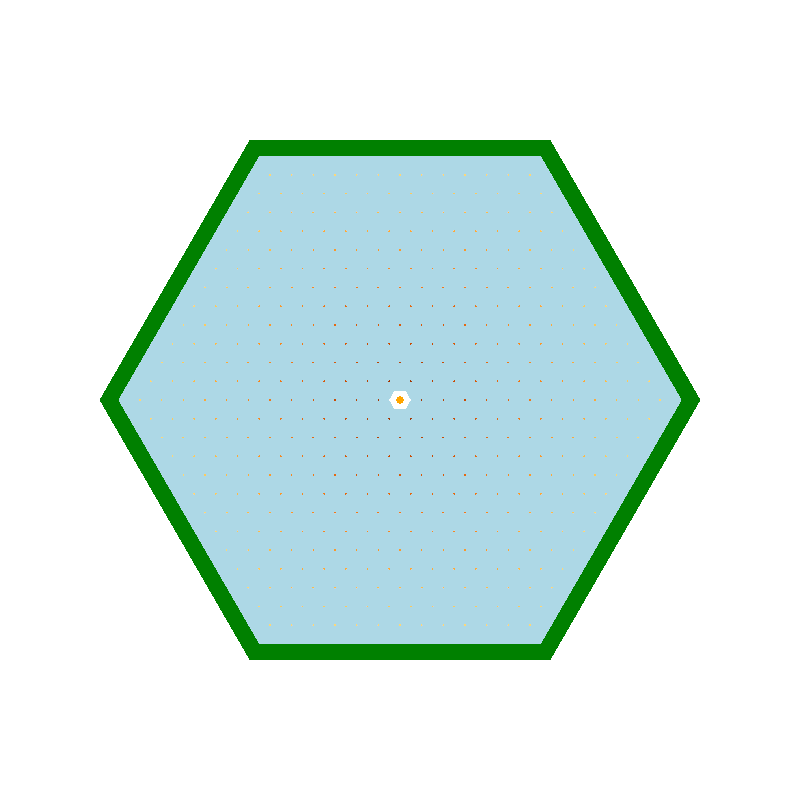
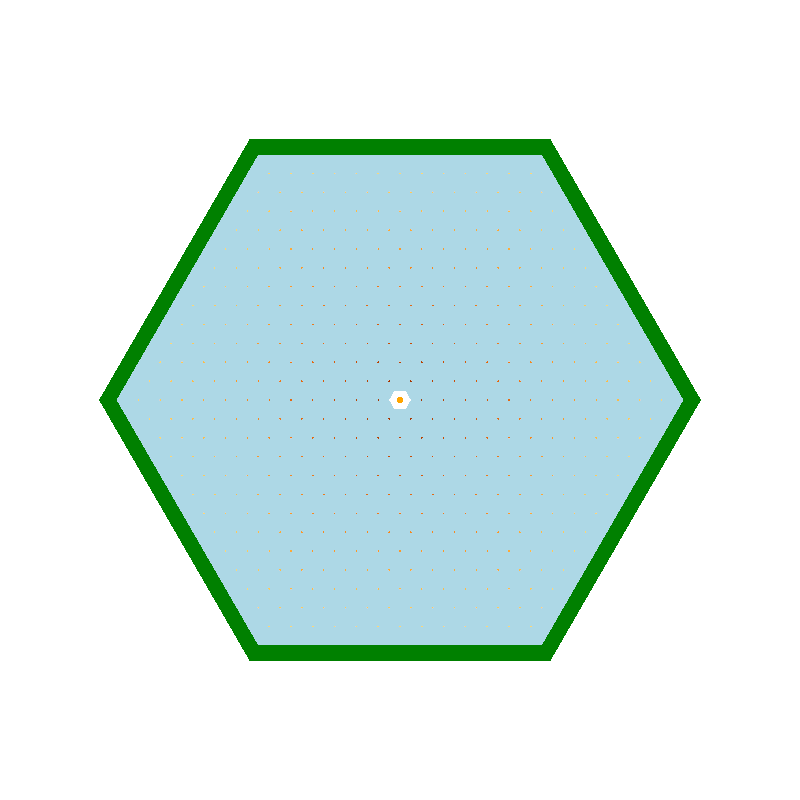
fixed funziona??

diff --git a/Open MC/reattore_9/.ipynb_checkpoints/run_pot-checkpoint.py b/Open MC/reattore_9/.ipynb_checkpoints/run_pot-checkpoint.py
@@ -1,0 +1,60 @@
+import pandas as pd
+import papermill as pm
+import os
+
+def parse_result_final(filename):
+    data = []
+    with open(filename, 'r') as file:
+        for line in file:
+            line = line.strip()
+            # Salta intestazioni e righe vuote
+            if not line or line.startswith('-') or line.startswith('=') or 'Pres [Atm]' in line:
+                continue
+            cols = line.split()
+            if len(cols) == 12:
+                try:
+                    data.append(list(map(float, cols)))
+                except ValueError:
+                    continue
+                    
+    columns = ['pressione_atm', 'moltiplicatore', 'perc_water', 'arricch_INT', 'arricch_EXT', 't_water', 't_fuel', 'k_max', 'std_k_max', 'k_auto', 'std_k_auto', 'compatibilita']
+    return pd.DataFrame(data, columns=columns)
+
+# 1. Lettura dei risultati
+
+os.makedirs('fixed/statepoints', exist_ok=True)
+
+df_results = parse_result_final('result_final.txt')
+notebook_in = 'fixed/fixed.ipynb'
+
+# Definizione della riga di partenza (0-based: 3 corrisponde alla quarta riga dei dati validi)
+riga_partenza = 0
+
+# 2. Esecuzione ciclica con slicing del DataFrame
+for idx, row in df_results.iloc[riga_partenza:].iterrows():
+    
+
+    # ID univoco CORRETTO per il salvataggio dei file (mantiene 3 decimali)
+    run_id = f"pitch_{row['moltiplicatore']:.3f}".replace('.', '_')
+    
+    print(f"Avvio simulazione fixed: {run_id} con ARR. INT : {row['arricch_INT']:.3f}, e ARR. EXT : {row['arricch_EXT']:.3f} ...")
+
+    
+    pm.execute_notebook(
+        notebook_in,
+        os.devnull,
+        cwd='fixed/statepoints',
+        parameters=dict(
+            pressione_atm=row['pressione_atm'],
+            moltiplicatore=row['moltiplicatore'],
+            perc_water=row['perc_water'],
+            arricch_max=row['arricch_INT'], 
+            arricch_min=row['arricch_EXT'], 
+            t_water=row['t_water'],
+            t_fuel=row['t_fuel'],
+            run_id=run_id
+        ),
+        log_output=True
+    )
+
+print("Tutte le simulazioni completate.")
